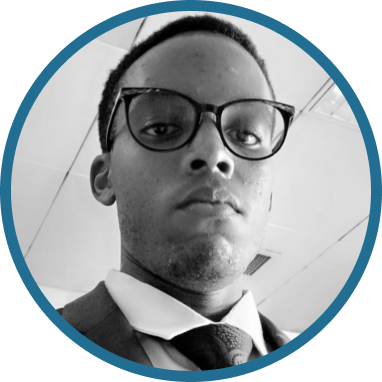
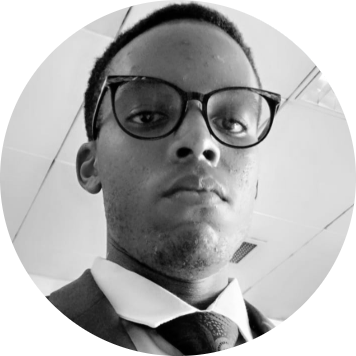
feat: add styling and image assets to the raw HTML

diff --git a/index.html b/index.html
@@ -5,48 +5,69 @@
     <meta charset="UTF-8">
     <meta name="viewport" content="width=device-width, initial-scale=1.0">
     <title>Calvin Sendawula E-Porfolio</title>
+    <link rel="stylesheet" href="CSS/style.css">
 </head>
 
 <body>
-    <div class="full-page-section">
-        <div class="main-section">
+    <div class="main-section">
+        <div class="my_name">
             <h1>Calvin Sendawula</h1>
-            <br>
+        </div>
+        <div class="carousel">
             <h2 id="carousel"></h2>
-            <br>
+        </div>
+        <div class="greeting">
             <p>Hey! My name is Calvin.</p>
+        </div>
+        <div class="short-intro">
             <p>I am passionate about programming and love solving challenges.</p>
-            <p>I&apos;m currently a 4th year student of Computer Science at Strathmore University, set to graduate in
-                2024.</p>
-            <p>I have experience in the following:</p>
-            <br>
-            <ul>
-                <li>Web Development</li>
-                <li>Software Development</li>
-                <li>Database Management</li>
-                <li>Data Analysis</li>
-                <li>Artificial Intelligence</li>
-                <li>Machine Learning</li>
-            </ul>
-            <br>
-            <img src="assets/calvin_sendawula.png" id="profile-picture" alt="Calvin Sendawula">
-            <br>
-            <div class="social-links">
-                <a href="https://www.linkedin.com/in/ceejay188/" target="_blank"><img
-                        src="https://img.icons8.com/fluent/48/000000/linkedin.png" id="linkedin-icon"
-                        alt="LinkedIn"></a>
-                <a href="https://github.com/calvinsendawula" target="_blank"><img
-                        src="https://img.icons8.com/fluent/48/000000/github.png" id="github-icon" alt="GitHub"></a>
-                <a href="mailto:calvinsendawula188@gmail.com" target="_blank"><img
-                        src="https://img.icons8.com/fluent/48/000000/gmail.png" id="email-icon" alt="Email"></a>
+        </div>
+        <div class="skills-section">
+            <div class="bio">
+                <p>I&apos;m currently a 4<sup>th</sup> year student of Computer Science at Strathmore University, set to
+                    graduate
+                    in
+                    2024.</p>
+                <p>I have experience in the following:</p>
+                <ul>
+                    <li>
+                        <div id="ul-1">1</div><span>Web Development</span>
+                    </li>
+                    <li>
+                        <div id="ul-2">2</div><span>Software Development</span>
+                    </li>
+                    <li>
+                        <div id="ul-3">3</div><span>Database Management</span>
+                    </li>
+                    <li>
+                        <div id="ul-4">4</div><span>Data Analysis</span>
+                    </li>
+                    <li>
+                        <div id="ul-5">5</div><span>Artificial Intelligence</span>
+                    </li>
+                    <li>
+                        <div id="ul-6">6</div><span>Machine Learning</span>
+                    </li>
+                </ul>
             </div>
+            <div class="profile-picture">
+                <img src="assets/calvin_sendawula.png" id="profile-picture" alt="Calvin Sendawula">
+            </div>
+        </div>
+        <div class="social-links">
+            <a href="https://www.linkedin.com/in/ceejay188/" target="_blank"><img src="assets/linkedin-light.png"
+                    id="linkedin-icon" alt="LinkedIn"></a>
+            <a href="https://github.com/calvinsendawula" target="_blank"><img src="assets/github-light.png"
+                    id="github-icon" alt="GitHub"></a>
+            <a href="mailto:calvinsendawula188@gmail.com" target="_blank"><img src="assets/gmail-light.png"
+                    id="gmail-icon" alt="Email"></a>
         </div>
         <div class="footer-nav-section">
             <div class="footer-nav">
-                <a href="index.html" class="active">Home</a>
-                <a href="projects.html">Projects</a>
-                <a href="skills.html">Skills</a>
-                <a href="contact.html">Contact</a>
+                <a href="index.html">Home</a>
+                <a href="">Projects</a>
+                <a href="">My Resume</a>
+                <a href="">Contact</a>
             </div>
         </div>
     </div>

diff --git a/CSS/style.css b/CSS/style.css
@@ -1,0 +1,135 @@
+html {
+    font-family: 'Arial', sans-serif;
+    font-style: normal;
+    color: white;
+}
+
+body {
+    background: linear-gradient(to bottom left, #000000, #a9a9a9);
+    width: 200vh;
+    height: 130vh;
+}
+
+
+h1 {
+    font-size: 10vh;
+    margin: 4vh 0;
+}
+
+p,
+ul {
+    font-size: 3vh;
+    margin: 2vh 0;
+}
+
+.main-section {
+    width: 200vh;
+    height: 130vh;
+    display: flex;
+    flex-direction: column;
+    justify-content: center;
+    align-items: center;
+}
+
+.skills-section {
+    width: 200vh;
+    display: flex;
+    flex-direction: row;
+    justify-content: center;
+}
+
+.bio {
+    width: 50vh;
+    display: flex;
+    flex-direction: column;
+    justify-content: right;
+    margin-right: 5vh;
+}
+
+.bio ul {
+    list-style-type: none;
+    margin-left: -5vh;
+}
+
+.bio ul li {
+    display: flex;
+    flex-direction: row;
+}
+
+.bio ul li div {
+    width: 3vh;
+    height: 3vh;
+    margin-right: 1vh;
+    border-radius: 35%;
+    padding: 0 0 5px 5px;
+    border-left: 0.57vh solid white;
+    border-bottom: 0.57vh solid white;
+}
+
+#ul-2 {
+    margin-left: 3vh;
+}
+
+#ul-3 {
+    margin-left: 6vh;
+}
+
+#ul-4 {
+    margin-left: 9vh;
+}
+
+#ul-5 {
+    margin-left: 12vh;
+}
+
+#ul-6 {
+    margin-left: 15vh;
+}
+
+.profile-picture {
+    width: 50vh;
+    height: 50vh;
+    margin-left: 5vh;
+}
+
+.profile-picture img {
+    width: 50vh;
+    height: 50vh;
+}
+
+.social-links {
+    width: 30vh;
+    display: flex;
+    flex-direction: row;
+    justify-content: space-between;
+    margin-top: 5vh;
+}
+
+.social-links img {
+    width: 7vh;
+    height: 7vh;
+}
+
+.footer-nav-section {
+    width: 70vh;
+    margin-top: 5vh;
+    border-top: solid 1px white;
+}
+
+.footer-nav {
+    width: 70vh;
+    display: flex;
+    flex-direction: row;
+    justify-content: space-between;
+    margin-top: 5vh;
+}
+
+.footer-nav-section a {
+    color: white;
+    text-decoration: none;
+    font-size: 3vh;
+}
+
+.footer-nav-section a:hover {
+    color: rgb(209, 209, 209);
+}
